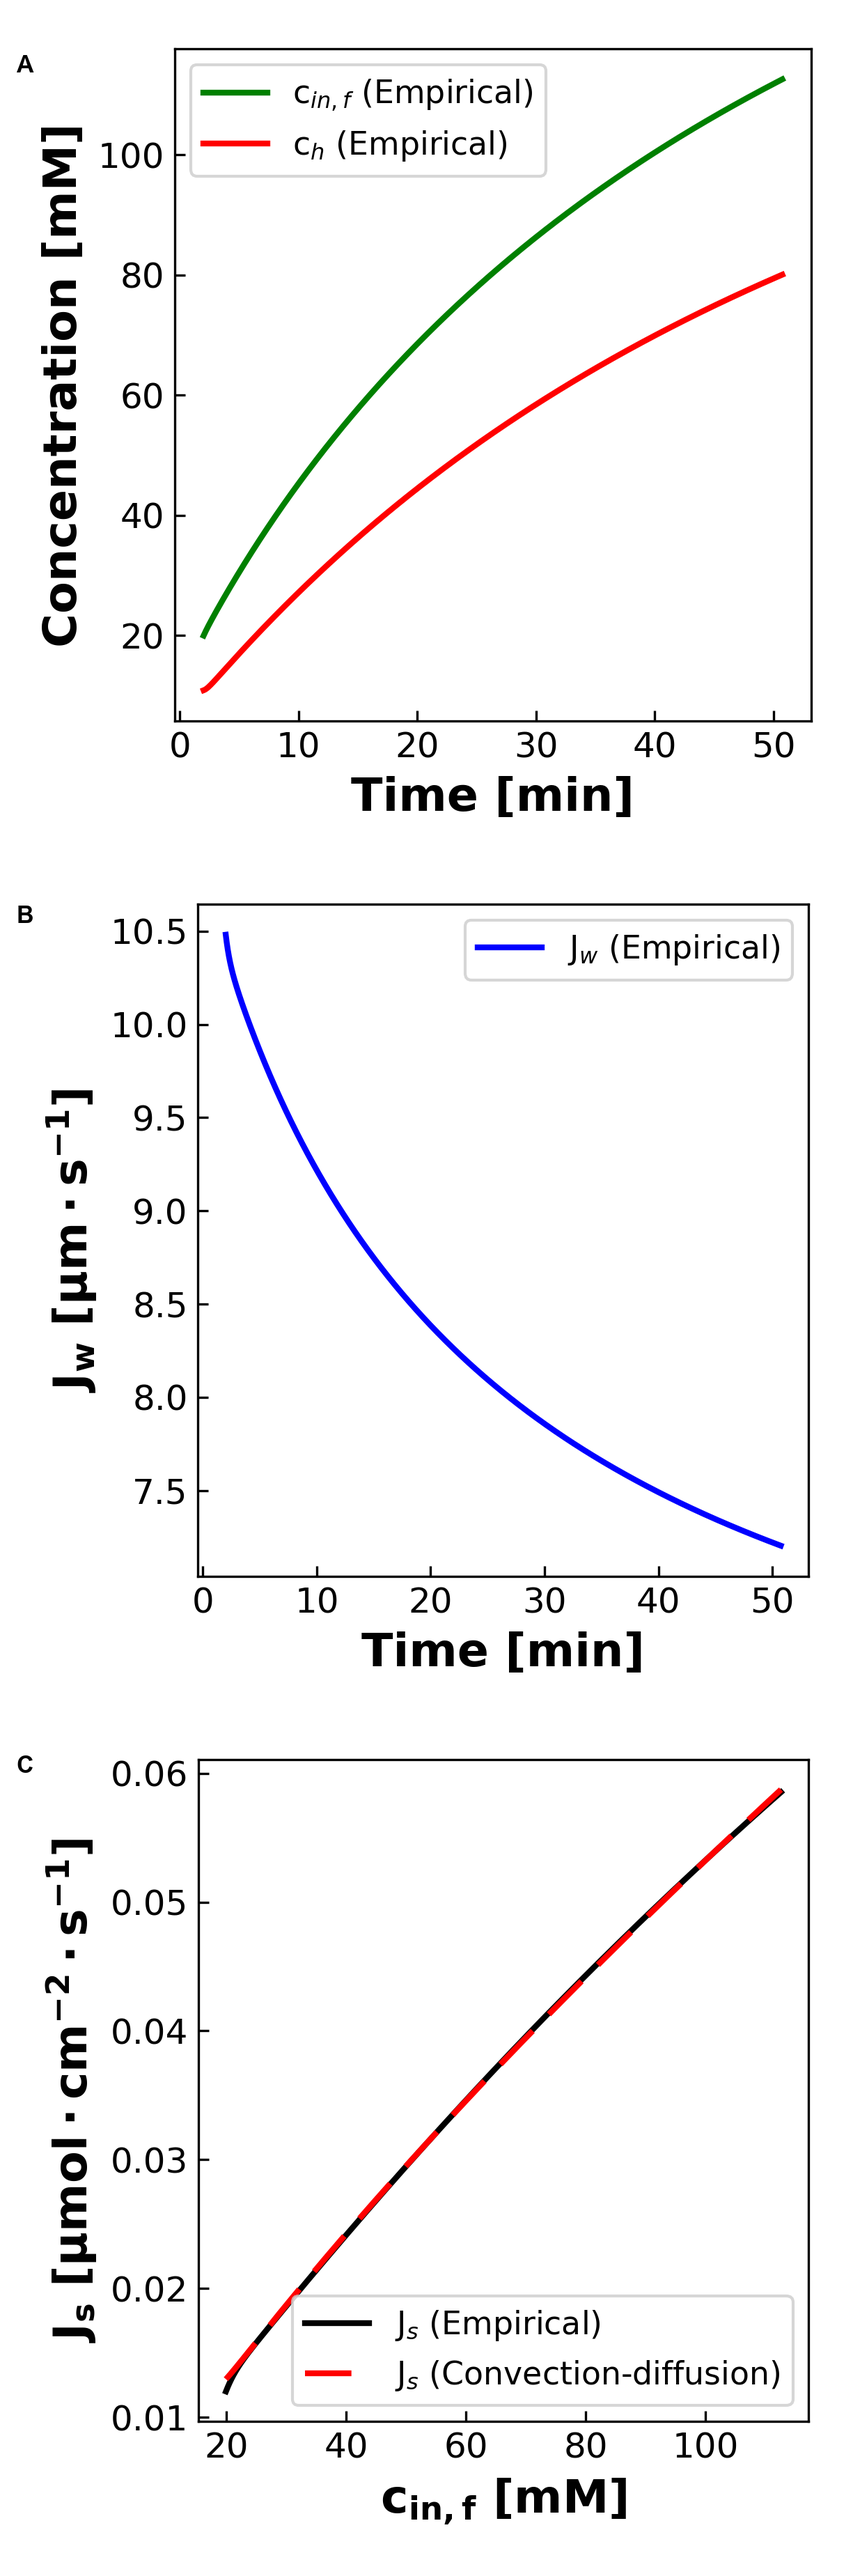
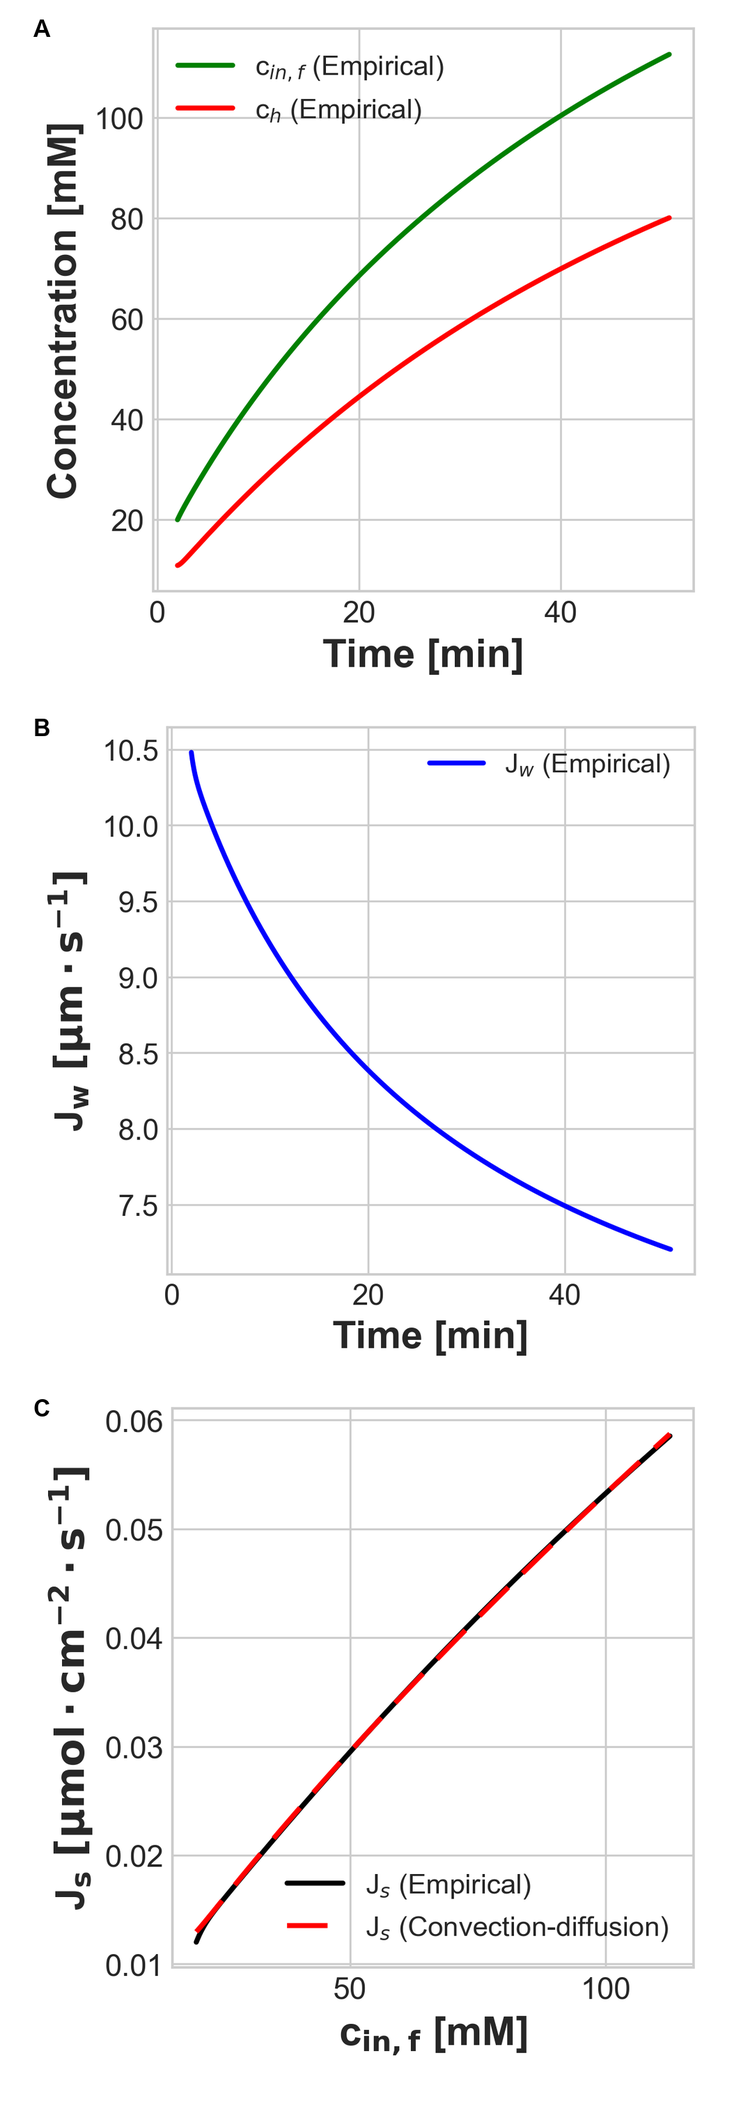
Fix DATA2 figure 7 panel layout

diff --git a/refactored_codes_v1/refactored_ucb_library.py b/refactored_codes_v1/refactored_ucb_library.py
@@ -4507,6 +4507,59 @@ def _compose_data2_figure6(rows, out_path):
     return out_path
 
 
+def _compose_data2_figure7(rows, out_path):
+    """Compose DATA2 Figure 7 as a vertical A/B/C stack with room for labels."""
+    try:
+        from PIL import Image, ImageDraw, ImageFont
+    except Exception:
+        return None
+
+    valid_rows = []
+    for row in rows:
+        existing = [Path(p) for p in row if Path(p).exists()]
+        if existing:
+            valid_rows.append(existing)
+    if len(valid_rows) != 3 or any(len(row) != 1 for row in valid_rows):
+        return None
+
+    target_w = 980
+    left_margin = 42
+    right_margin = 42
+    top_margin = 16
+    bottom_margin = 44
+    row_gap = 26
+
+    panels = []
+    for row in valid_rows:
+        img = Image.open(row[0]).convert("RGB")
+        scale = target_w / img.width
+        resized = img.resize((target_w, int(round(img.height * scale))), Image.Resampling.LANCZOS)
+        panels.append(resized)
+
+    page_w = left_margin + target_w + right_margin
+    page_h = top_margin + sum(im.height for im in panels) + row_gap * (len(panels) - 1) + bottom_margin
+    page = Image.new("RGB", (page_w, page_h), "white")
+
+    labels = ["A", "B", "C"]
+    try:
+        font = ImageFont.truetype("/System/Library/Fonts/Supplemental/Arial Bold.ttf", 34)
+    except Exception:
+        font = None
+
+    draw = ImageDraw.Draw(page)
+    x = left_margin
+    y = top_margin
+    for label, im in zip(labels, panels):
+        page.paste(im, (x, y))
+        draw.text((x + 6, y + 6), label, fill="black", font=font)
+        y += im.height + row_gap
+
+    out_path = Path(out_path)
+    out_path.parent.mkdir(parents=True, exist_ok=True)
+    page.save(out_path)
+    return out_path
+
+
 def run_data2_publication_figures(data_root=None, save_dir=None):
     """Assemble the paper-style DATA2 main and SI figure sheets from generated panels."""
     _ = _resolve_data2_root(data_root)
@@ -4640,16 +4693,15 @@ def run_data2_publication_figures(data_root=None, save_dir=None):
         valid_rows = [[p for p in row if p is not None] for row in rows]
         if out_name == "figure_6.png":
             composite = _compose_data2_figure6(valid_rows, save_dir / out_name)
+        elif out_name == "figure_7.png":
+            composite = _compose_data2_figure7(valid_rows, save_dir / out_name)
         else:
             composite = _compose_data2_panel_sheet(valid_rows, save_dir / out_name)
         if composite is not None:
             if out_name == "figure_6.png":
                 pass
             elif out_name == "figure_7.png":
-                _annotate_data2_panel_labels(
-                    composite,
-                    [("A", 0.02, 0.02), ("B", 0.02, 0.35), ("C", 0.02, 0.68)],
-                )
+                pass
             elif out_name == "figure_9.png":
                 _annotate_data2_panel_labels(
                     composite,
